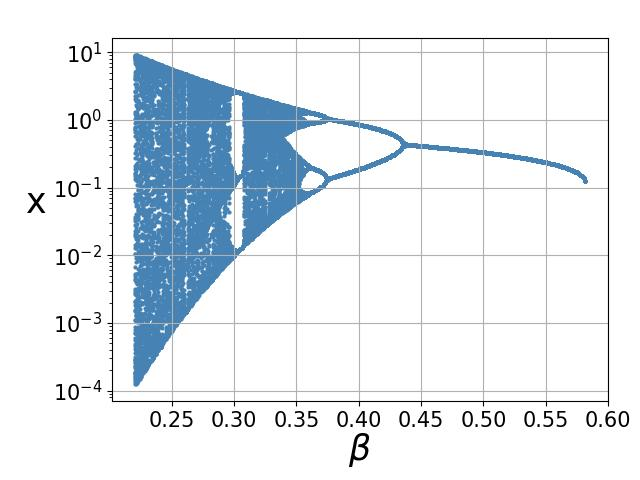
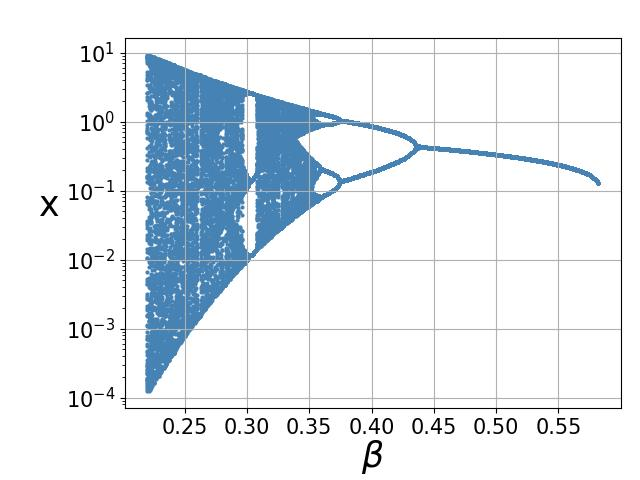
Upd

Changed region(s): [[0.0312, 0.0938, 1.0, 1.0], [0.75, 0.3125, 0.8125, 0.3438]]

diff --git a/latex/stochastic/texfiles/bifurcation.tex b/latex/stochastic/texfiles/bifurcation.tex
@@ -7,23 +7,24 @@
     \begin{figure}
         \centering
         \subfloat[для модели (\ref{origin}) (без шума)]{
-            \includegraphics[width=0.55\textwidth]{stochastic/images/bifurcation_x_0_2_a_1_compare_no_noise.jpg}
+            \includegraphics[width=0.5\textwidth]{stochastic/images/bifurcation_x_0_2_a_1_compare_no_noise.jpg}
             \label{bifurcation_x_0_2_a_1_compare_no_noise}
         }  
         \subfloat[для модели (\ref{alpha_chaos}) (с \(\alpha\)-шумом)]{
-            \includegraphics[width=0.55\textwidth]{stochastic/images/bifurcation_x_0_2_a_1_compare_alpha_noise.jpg}
+            \includegraphics[width=0.5\textwidth]{stochastic/images/bifurcation_x_0_2_a_1_compare_alpha_noise.jpg}
             \label{bifurcation_x_0_2_a_1_compare_alpha_noise}
         }
         
         \subfloat[для модели (\ref{beta_chaos}) (с \(\beta\)-шумом)]{
-            \includegraphics[width=0.55\textwidth]{stochastic/images/bifurcation_x_0_2_a_1_compare_beta_noise.jpg}
+            \includegraphics[width=0.5\textwidth]{stochastic/images/bifurcation_x_0_2_a_1_compare_beta_noise.jpg}
             \label{bifurcation_x_0_2_a_1_compare_beta_noise}
         }
         \subfloat[для модели (\ref{additive_chaos}) (с аддитивным шумом)]{
-            \includegraphics[width=0.55\textwidth]{stochastic/images/bifurcation_x_0_2_a_1_compare_additional_noise.jpg}
+            \includegraphics[width=0.5\textwidth]{stochastic/images/bifurcation_x_0_2_a_1_compare_additional_noise.jpg}
             \label{bifurcation_x_0_2_a_1_compare_additional_noise}
         }
             
+        \captionsetup{justification=centering}
         \caption{Бифуркационная диаграмма при \(\varepsilon = 0.01\)}
     \end{figure}
 

diff --git a/grpah/runner.py b/grpah/runner.py
@@ -538,14 +538,14 @@ def run_compare_chaos_bifurcation():
     source0 = convert_dict_to_lists(source0)
 
     (Plotter()
-        .adjust(top=0.92, bottom=0.165, left=0.175, right=0.95)
+        .adjust(top=0.92, bottom=0.15, left=0.195, right=0.97)
         .setup_x_label('$\\beta$', font_size=25, label_pad=0)
+        .setup_x_ticks(font_size=15, ticks=np.arange(0.2, 0.6, 0.05))
         .setup_y_label('x', font_size=25, label_pad=12)
-        .setup_x_ticks(font_size=15)
         .setup_y_ticks(font_size=15)
         .setup_y_scale(scale.log)
         .setup_grid(grid.major)
-        .setup_title('Bifurcation')
+        # .setup_title('Bifurcation')
         .scatter(source0[0], source0[1], '.', colors.steel_blue)
         .show())
 

diff --git a/latex/stochastic/texfiles/time_series.tex b/latex/stochastic/texfiles/time_series.tex
@@ -24,6 +24,7 @@
             \label{time_series_x_0_06_a_1_b_0_56_additive_chaos_epsilon_0_004}
         }
         
+        \captionsetup{justification=centering}
         \caption{Временные ряды при \(\alpha = 1, \beta = 0.56, x_0 = 0.06, \varepsilon = 0.004\)}
     \end{figure}
 
@@ -53,6 +54,7 @@
             \label{time_series_x_0_06_a_1_b_0_56_beta_chaos_epsilon_0_04_alive}
         }  
         
+        \captionsetup{justification=centering}
         \caption{Временные ряды модели (\ref{beta_chaos}) при \(\beta = 0.56, \alpha = 1, x_0 = 0.06, \varepsilon = 0.04\)}
     \end{figure}
 

diff --git a/grpah/main.py b/grpah/main.py
@@ -26,13 +26,13 @@ if __name__ == "__main__":
     # run_bifurcation()
 
     # Показать графики бифуркации с разными шумами
-    # run_compare_chaos_bifurcation()
+    run_compare_chaos_bifurcation()
 
     # Показать график бифуркации с absorbing area
     # run_bifurcation_with_absorbing_area()
 
     # Показать показатель Ляпунова
-    run_lyapunov()
+    # run_lyapunov()
 
     # Показать лестницу Ламерея
     # run_lamerei()
